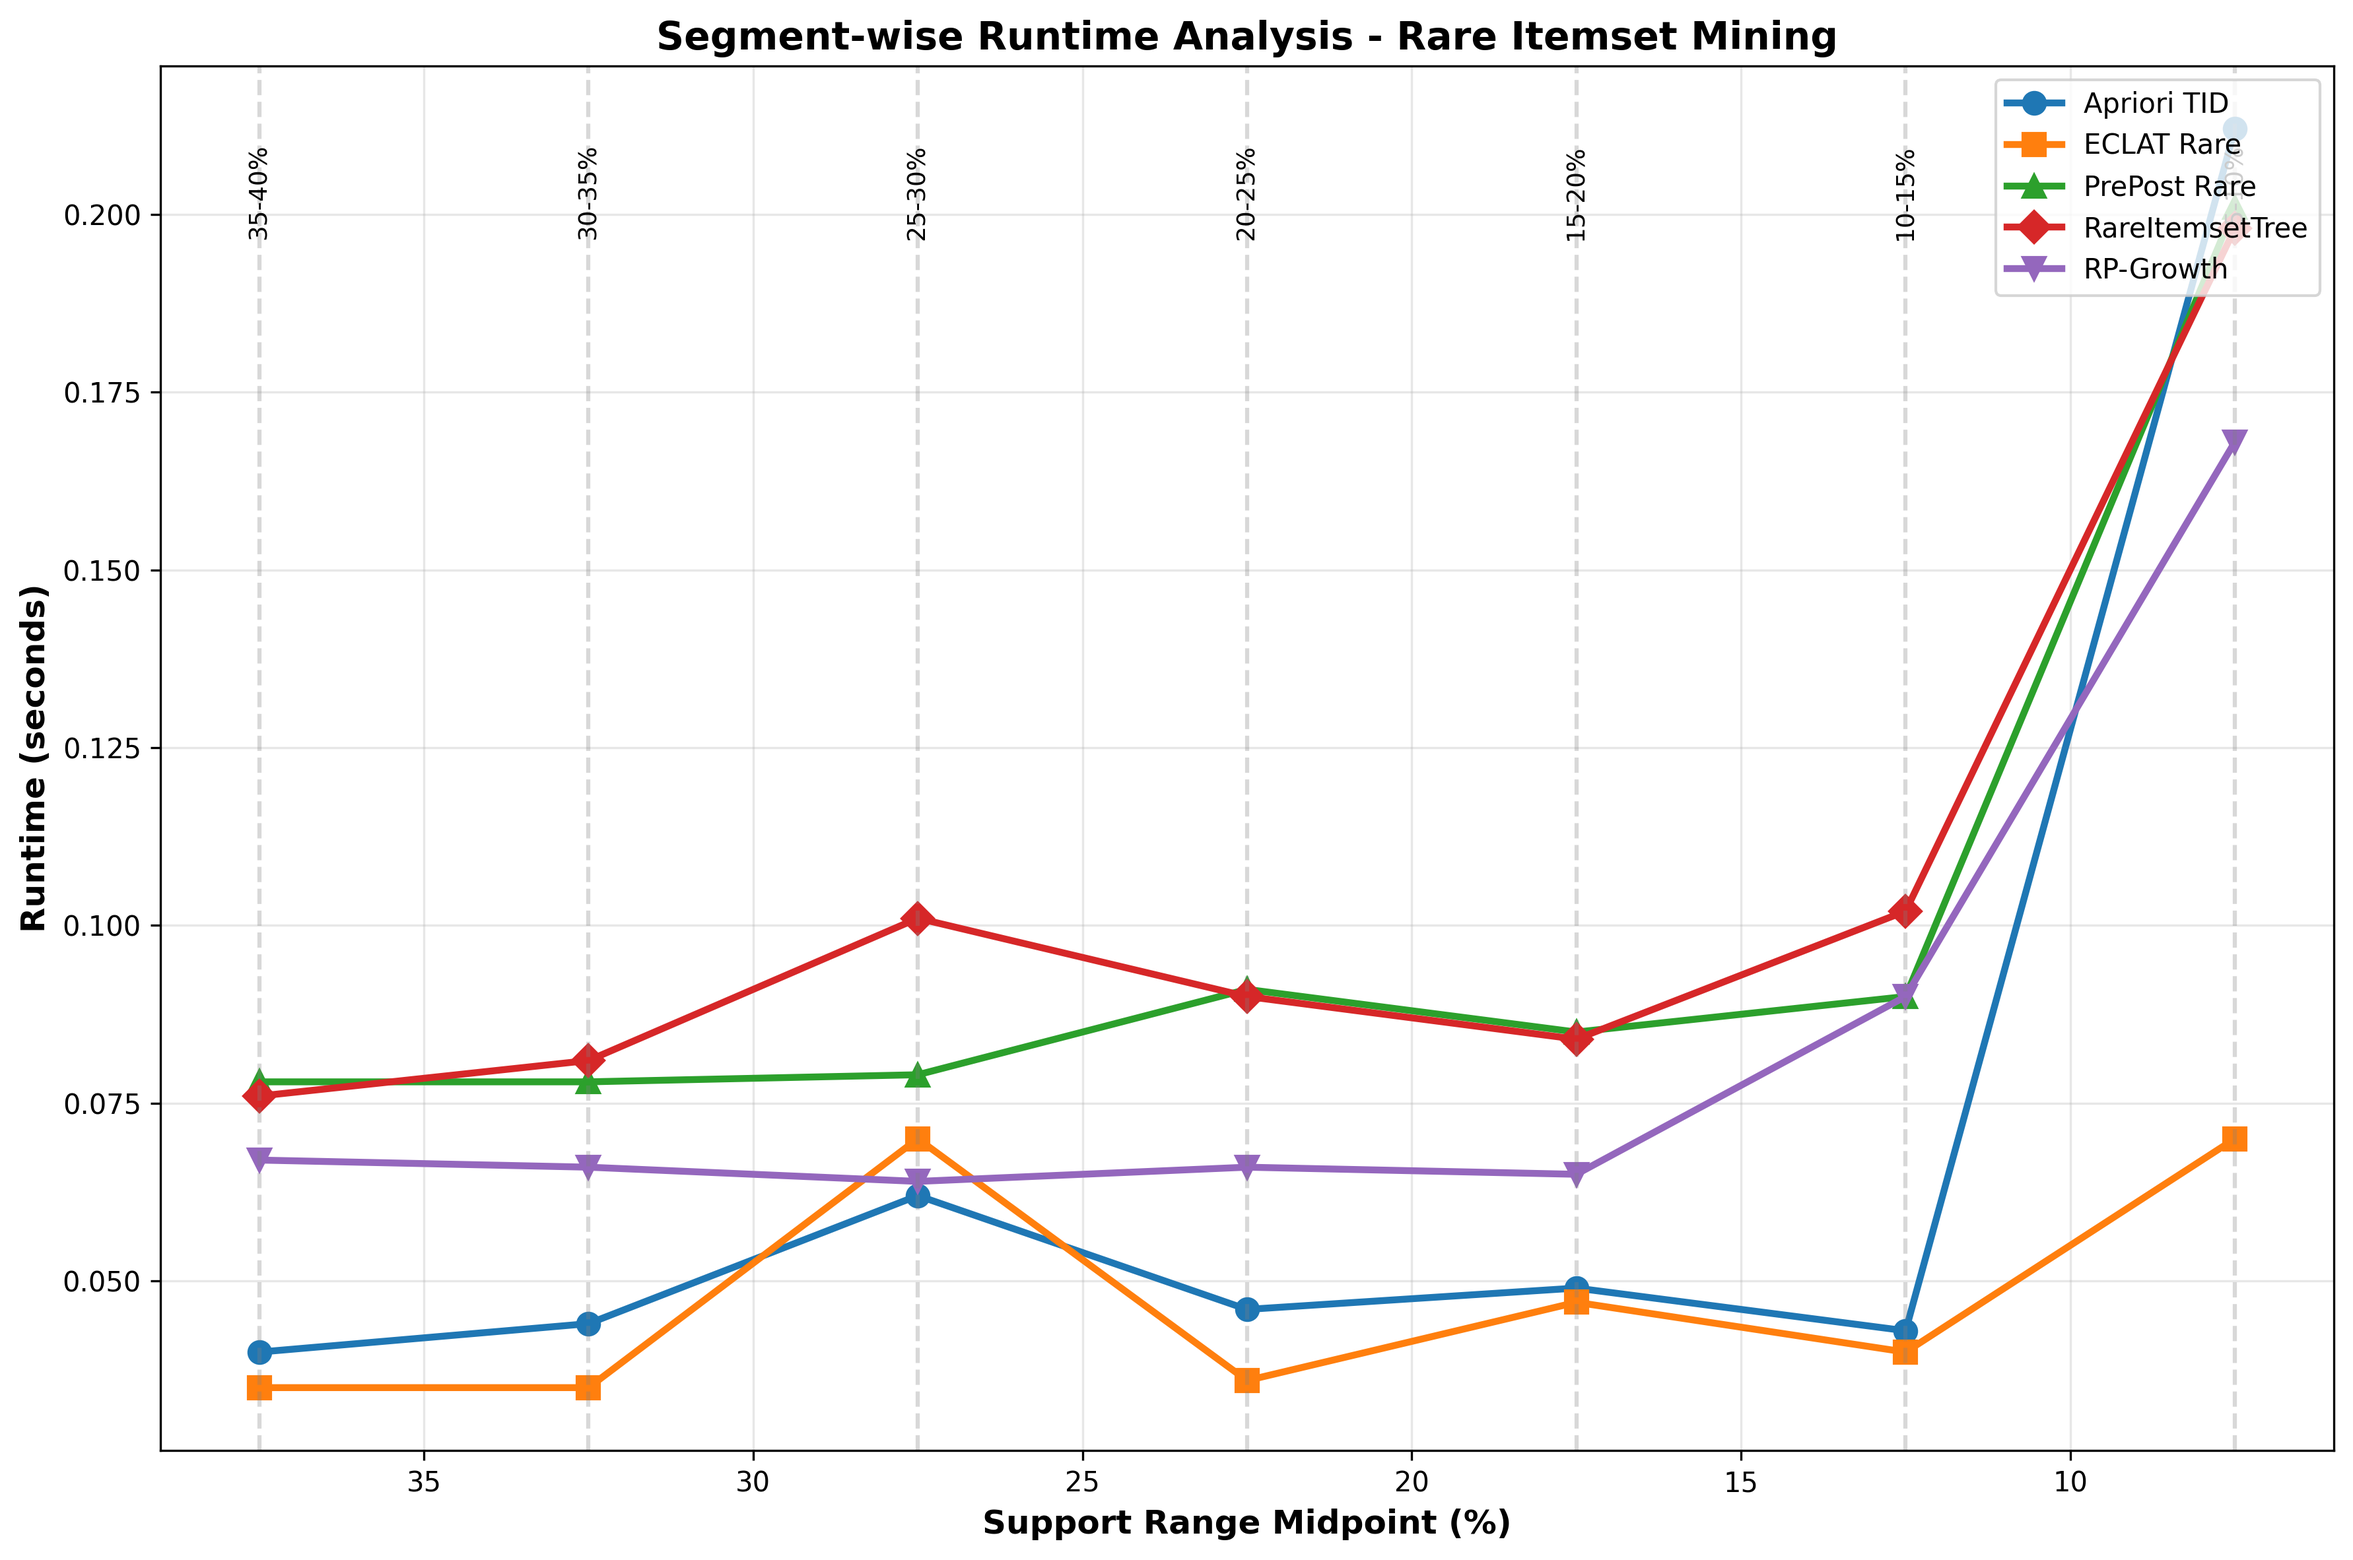
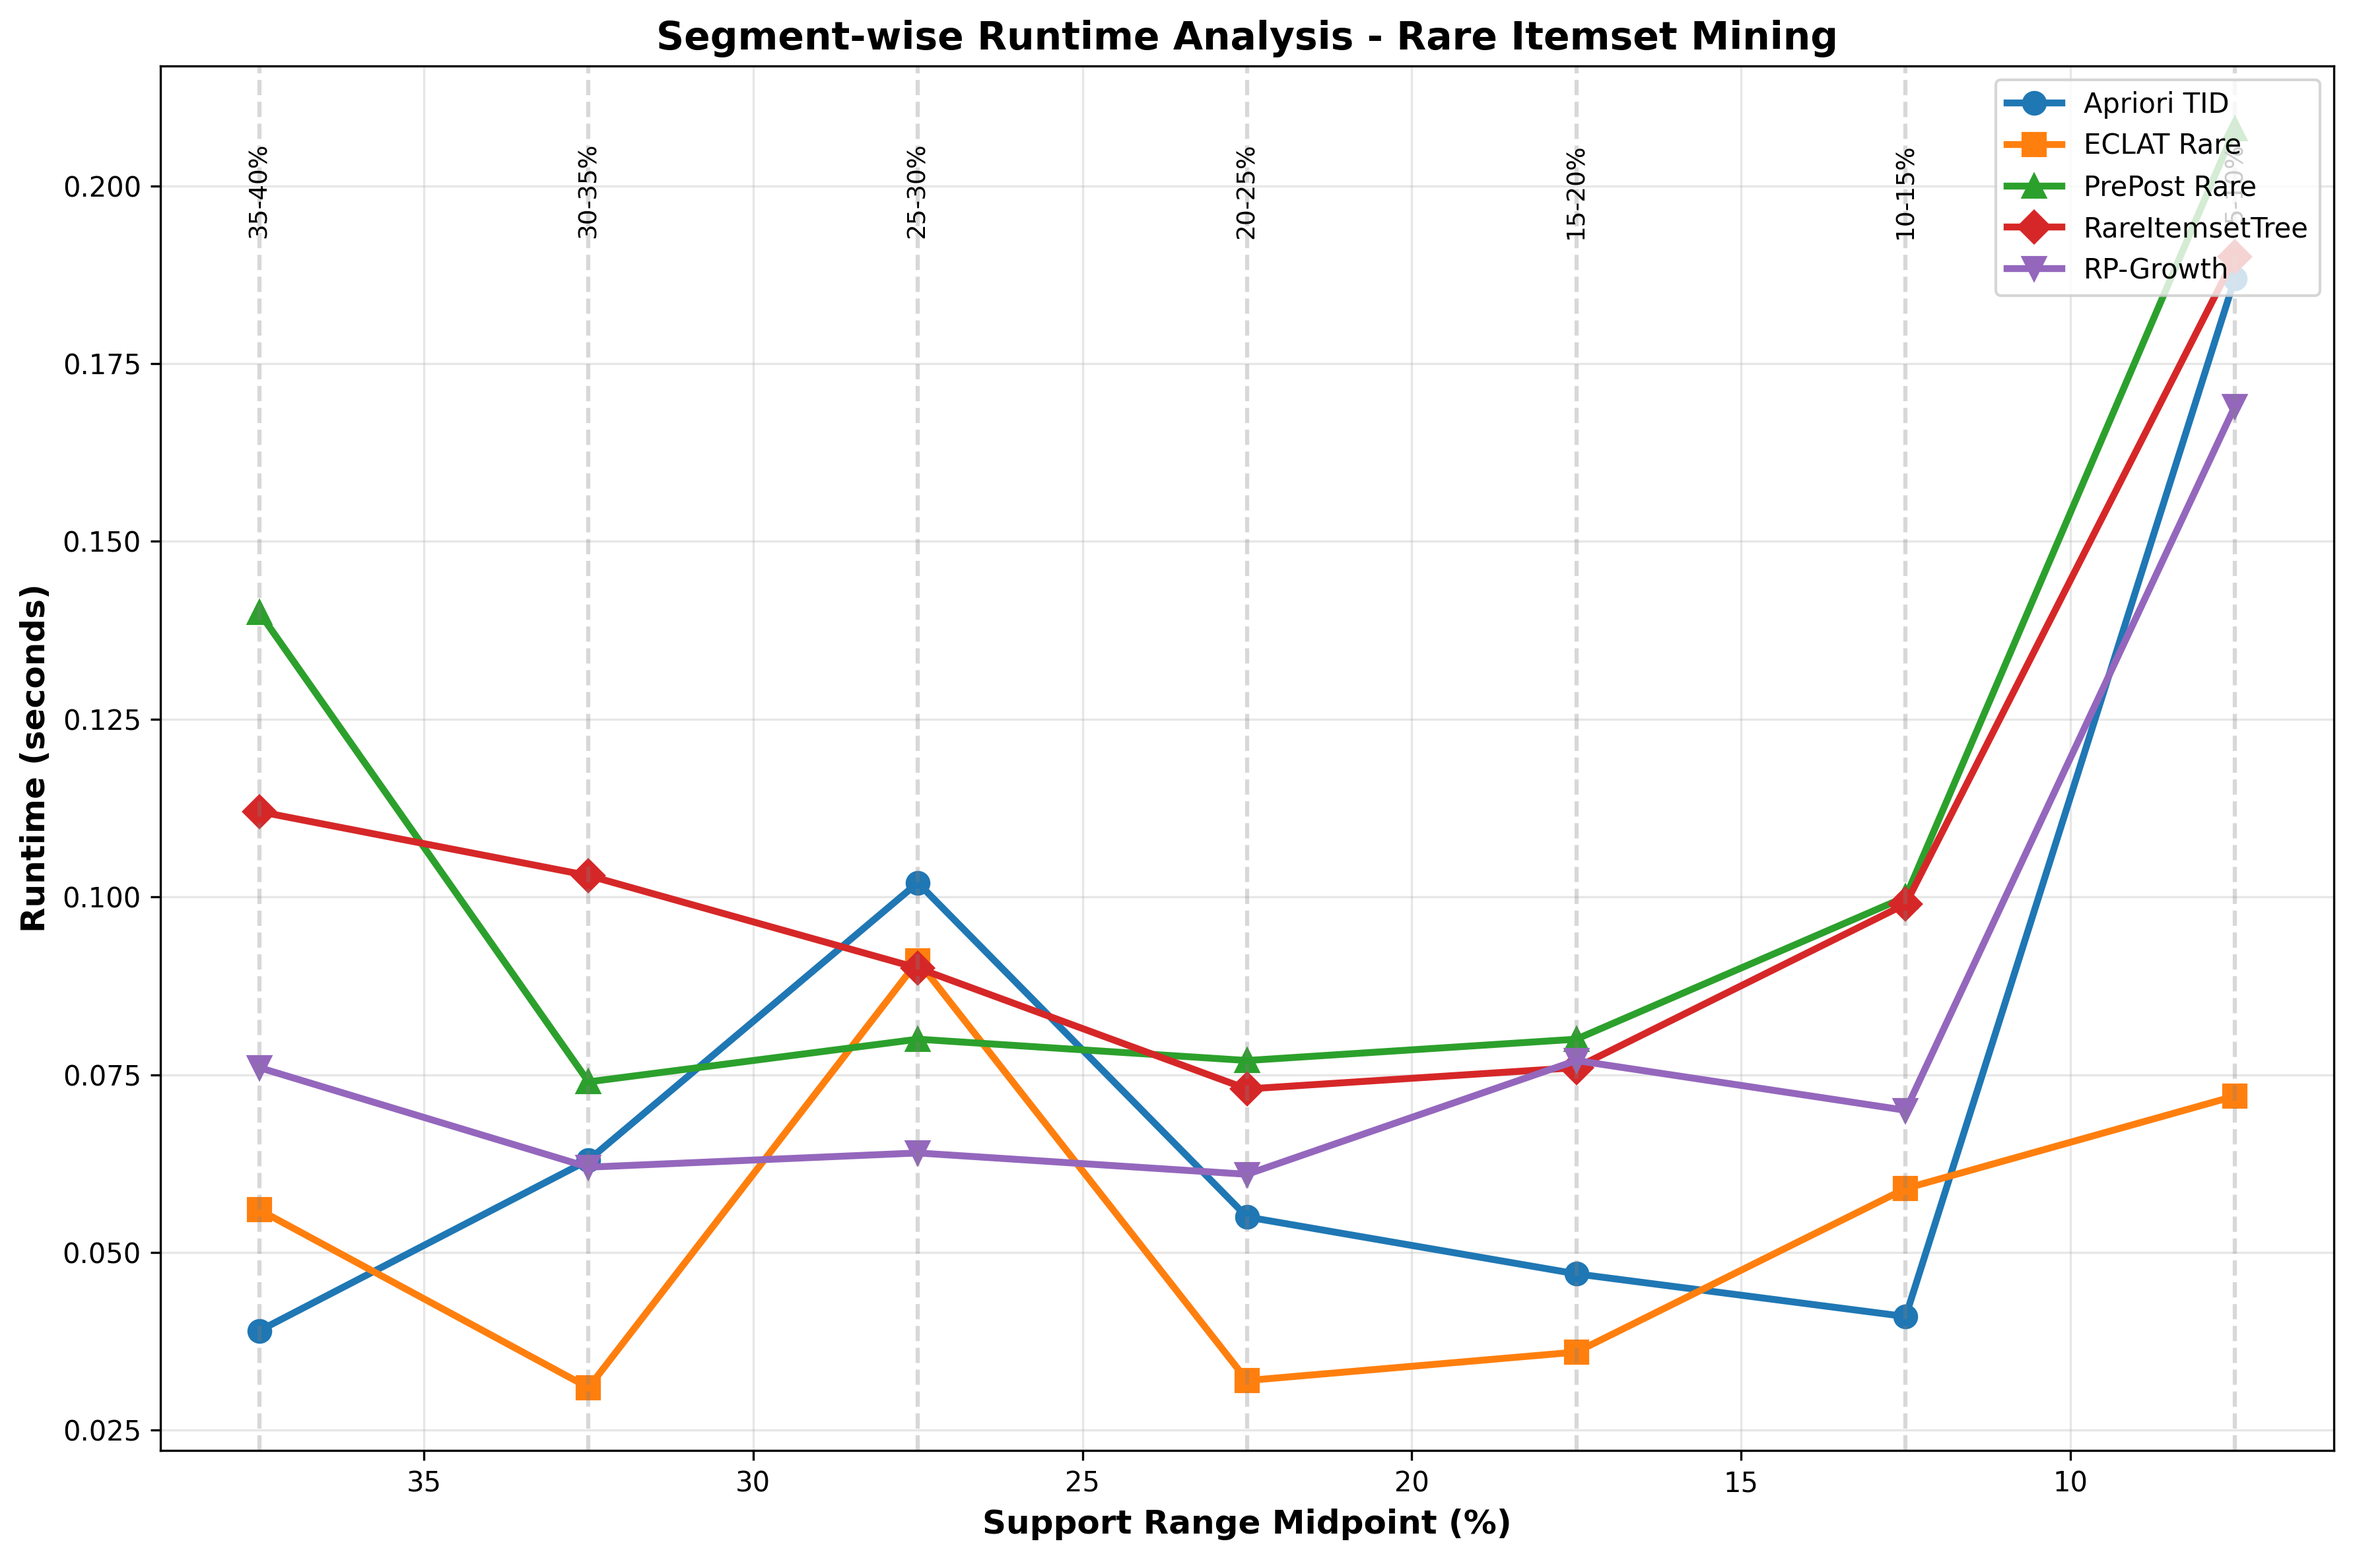
them thong ke bieu do v2

diff --git a/results/generate_segment_chart.py b/results/generate_segment_chart.py
@@ -2,50 +2,45 @@ import pandas as pd
 import matplotlib.pyplot as plt
 import numpy as np
 
-# Load segment data
+# Load single support data
 df = pd.read_csv('segment_benchmark.csv')
 
-# Create chart like research paper
+# Create chart like research paper with SINGLE support values
 plt.figure(figsize=(12, 8))
-
-# Use midpoint of each segment for x-axis
-df['MidSupport'] = (df['MinSupport'] + df['MaxSupport']) / 2
 
 algorithms = df['Algorithm'].unique()
 colors = ['#1f77b4', '#ff7f0e', '#2ca02c', '#d62728', '#9467bd']
 markers = ['o', 's', '^', 'D', 'v']
 
+# Plot each algorithm
 for i, algo in enumerate(algorithms):
-    algo_data = df[df['Algorithm'] == algo].sort_values('MidSupport')
-    plt.plot(algo_data['MidSupport'], algo_data['Runtime(ms)'] / 1000,
+    algo_data = df[df['Algorithm'] == algo].sort_values('SupportPoint')
+    
+    plt.plot(algo_data['SupportPoint'], algo_data['Runtime(ms)'] / 1000,
              marker=markers[i % len(markers)],
              color=colors[i % len(colors)],
              linewidth=2.5, markersize=8,
-             label=algo)
+             label=algo, alpha=0.8)
 
-plt.xlabel('Support Range Midpoint (%)', fontsize=12, fontweight='bold')
+plt.xlabel('Minimum Support (%)', fontsize=12, fontweight='bold')
 plt.ylabel('Runtime (seconds)', fontsize=12, fontweight='bold')
-plt.title('Segment-wise Runtime Analysis - Rare Itemset Mining', fontsize=14, fontweight='bold')
+plt.title('Runtime Analysis - Rare Itemset Mining\n(Single Support Values)', fontsize=14, fontweight='bold')
 plt.legend(loc='upper right')
 plt.grid(True, alpha=0.3)
+
+# Invert x-axis to match research paper format
 plt.gca().invert_xaxis()
 
-# Add segment labels
-segments = df[['MinSupport', 'MaxSupport']].drop_duplicates().sort_values('MinSupport')
-for _, seg in segments.iterrows():
-    mid = (seg['MinSupport'] + seg['MaxSupport']) / 2
-    plt.axvline(x=mid, color='gray', linestyle='--', alpha=0.3)
-    plt.text(mid, plt.ylim()[1] * 0.95, f"{seg['MinSupport']:.0f}-{seg['MaxSupport']:.0f}%",
-             ha='center', va='top', fontsize=9, rotation=90)
+# Add vertical lines at each support point
+support_points = sorted(df['SupportPoint'].unique(), reverse=True)
+for point in support_points:
+    plt.axvline(x=point, color='gray', linestyle='--', alpha=0.3, linewidth=1)
+    plt.text(point, plt.ylim()[1] * 0.95, f"{point:.0f}%",
+             ha='center', va='top', fontsize=10, rotation=0,
+             bbox=dict(boxstyle="round,pad=0.2", facecolor='white', alpha=0.7))
 
 plt.tight_layout()
-plt.savefig('segment_runtime_analysis.png', dpi=300, bbox_inches='tight')
+plt.savefig('runtime_analysis_single_support.png', dpi=300, bbox_inches='tight')
 plt.show()
 
-# Print segment summary
-print('\n📊 SEGMENT SUMMARY:')
-for _, seg in segments.iterrows():
-    seg_data = df[(df['MinSupport'] == seg['MinSupport']) & (df['MaxSupport'] == seg['MaxSupport'])]
-    avg_runtime = seg_data['Runtime(ms)'].mean()
-    avg_patterns = seg_data['ItemsetsFound'].mean()
-    print(f"{seg['MinSupport']:.0f}%-{seg['MaxSupport']:.0f}%: {avg_runtime:.0f}ms avg, {avg_patterns:.0f} patterns avg")
+print('\n📊 Chart saved: runtime_analysis_single_support.png')
